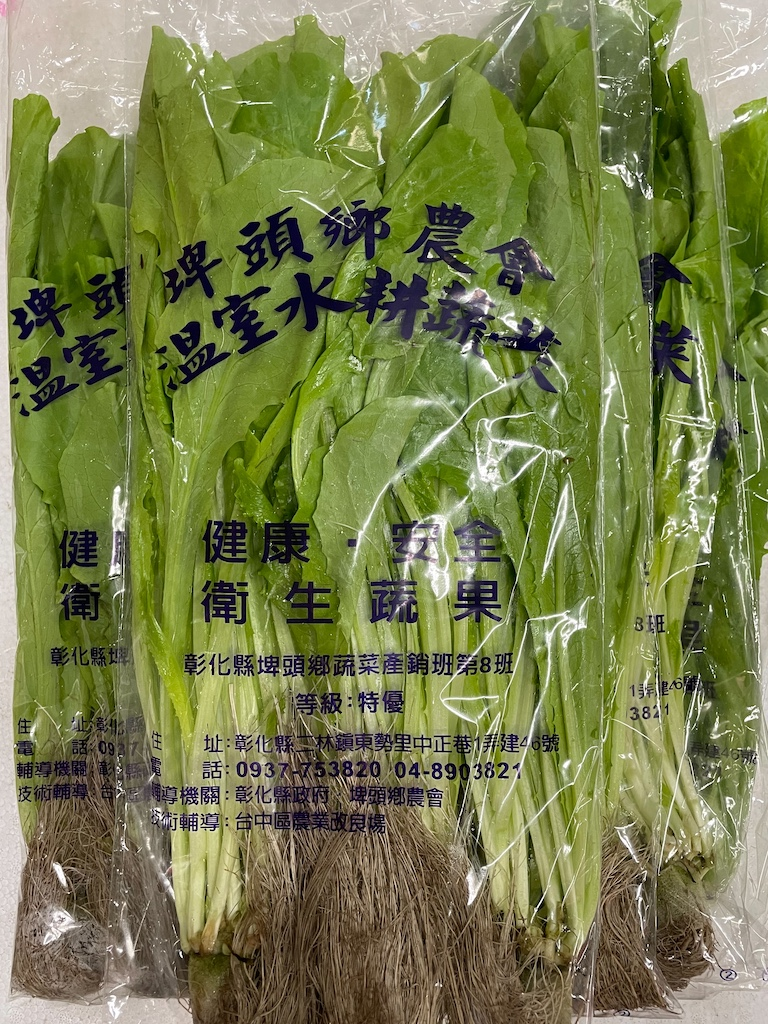
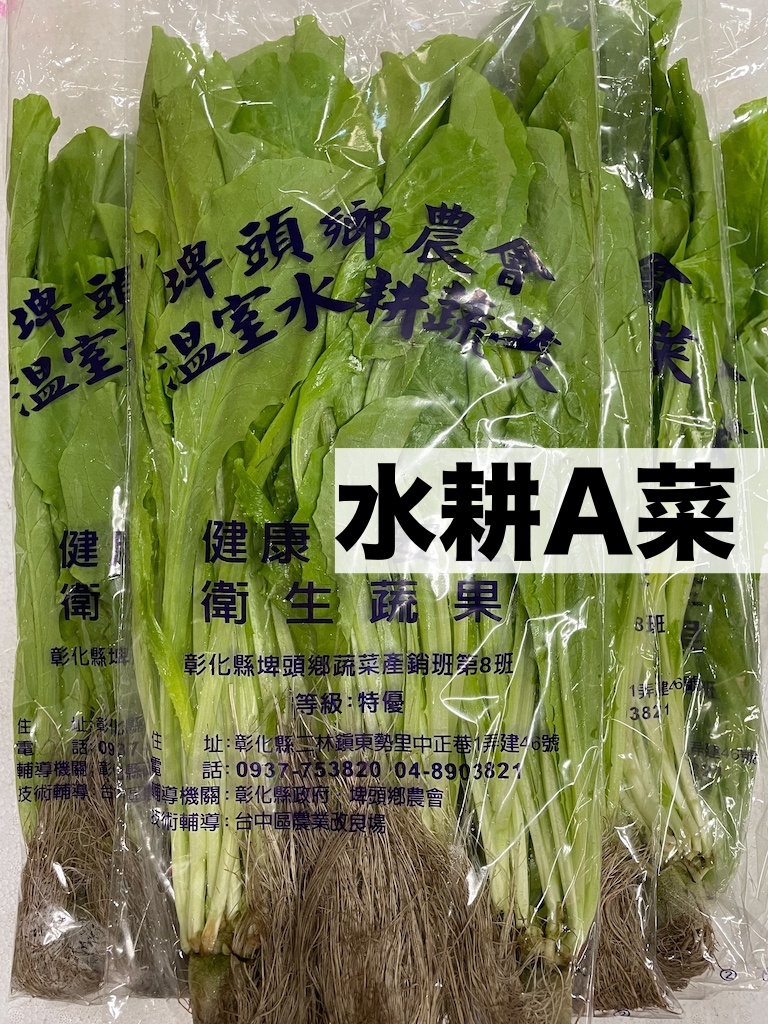
Updates

Changed region(s): [[0.4375, 0.4375, 1.0, 0.5625]]

diff --git a/static/js/main.2c08af31.chunk.js b/static/js/main.2c08af31.chunk.js
@@ -1,0 +1,2 @@
+(this["webpackJsonplandingpage-react-template"]=this["webpackJsonplandingpage-react-template"]||[]).push([[0],[,,,,,,,function(e){e.exports=JSON.parse('{"Header":{"title":"\u53f0\u7063\u76f4\u9001\u751f\u9bae\u852c\u83dc","paragraph":"\u7a7a\u904b\uff0c\u65b0\u9bae"},"About":{"paragraph":"\u4f86\u81ea\u5168\u53f0\u7063\u6700\u5148\u9032\u3001\u74b0\u4fdd\u7684\u677f\u6a4b\u679c\u83dc\u5e02\u5834","Why":["\u7522\u5730\u7cbe\u9078\u7576\u65e5\u65b0\u9bae\u6709\u6a5f\u7121\u8fb2\u85e5\u7522\u54c1","\u5c08\u4eba\u6e05\u7406\u7b26\u5408\u96d9\u908a\u6d77\u95dc\u6aa2\u9a57\u6a19\u6e96","\u53ef\u7533\u8acb\u8fb2\u85e5\u6aa2\u75ab\u8b49\u660e\u66f8","\u4fdd\u9bae\u4fdd\u51b7\u5305\u88dd\uff0c\u907f\u514d\u904b\u9001\u78b0\u649e\u640d\u58de"],"Why2":["\u5c08\u696d\u51b7\u85cf\u8a2d\u5099\uff0c\u65b0\u9bae\u54c1\u8cea\u4fdd\u8b49","\u4eca\u5929\u8a02\u8ca8\uff0c\u5f8c\u5929\u65e9\u4e0a\u53d6\u8ca8"]},"Faq":[{"question":"\u7e3d\u50f9\u70ba\u4f55\u9019\u9ebc\u8cb4","answer":"\u56e0\u70ba\u7a7a\u904b\u8cbb\u7528\u8f03\u8cb4\uff0c\u53f0\u7063\u852c\u679c\u4fbf\u5b9c\u6709\u54c1\u8cea\uff5e\u91cf\u5927\u53ef\u8b70"},{"question":"\u70ba\u4ec0\u9ebc\u53ea\u8ce3\u9019\u4e9b\u83dc\u7a2e","answer":"\u7d93\u904e\u5e02\u5834\u8abf\u67e5\uff0c\u6311\u9078\u4e86\u9999\u6e2f\u8cb7\u4e0d\u5230\u7684\u83dc\u7a2e"},{"question":"\u60f3\u77e5\u9053\u6709\u6c92\u6709\u5176\u4ed6\u7a2e\u985e","answer":"\u8acb\u63d0\u4f9b\u83dc\u7a2e\u540d\u7a31\uff0c\u6703\u5831\u7576\u65e5\u6642\u50f9\u7d66\u60a8"},{"question":"\u6709\u8ce3\u6c34\u679c\u55ce\uff1f","answer":"\u6709\u7684\uff0c\u8acb\u63d0\u4f9b\u6c34\u679c\u540d\u7a31\uff0c\u6211\u6703\u5831\u7576\u65e5\u6642\u50f9\u7d66\u60a8\uff0c\u4f46\u6c34\u679c\u6709\u5206\u8010\u719f\uff08\u8010\u653e\uff09\u53ca\u4e0d\u8010\u719f\uff08\u4e0d\u8010\u653e\uff09\uff0c\u8010\u719f\u5efa\u8b70\u8239\u904b\uff0c\u4e0d\u8010\u719f\u6700\u597d\u7a7a\u904b"},{"question":"\u6709\u8ce3\u706b\u934b\u98df\u6750\u55ce\uff1f\u4e38\u5b50\u985e\u9b5a\u677f\u985e\u7b49...","answer":"\u6709\u7684\uff0c\u8acb\u63d0\u4f9b\u54c1\u9805\uff0c\u6211\u6703\u5831\u7576\u65e5\u6642\u50f9\u7d66\u60a8"},{"question":"\u6709\u9b5a\u985e\u3001\u8089\u985e\u55ce\uff1f","answer":"\u6c92\u6709\uff0c\u56e0\u70ba\u6c92\u6709\u98db\u6a5f\u51b7\u51cd\u8a2d\u5099\u53ef\u4ee5\u505a\u8089\u54c1\u4fdd\u9bae"},{"question":"\u8089\u9b06\u3001\u6708\u9905\u3001\u679c\u4e7e\u3001\u4e7e\u8ca8\u985e\u7b49...\u6709\u8ce3\u55ce\uff1f","answer":"\u6709\u7684\uff0c\u8a62\u50f9\u5f8c\u53ef\u5831\u50f9\u7d66\u60a8"}],"Services":[{"icon":"fa fa-plane","img":"img/gif/select.gif","name":"\u7d30\u9078","text":"\u5c08\u696d\u4eba\u54e1\u6bcf\u65e5\u5728\u62cd\u8ce3\u5e02\u5834\u6311\u9078\u7576\u65e5\u65b0\u9bae\u98df\u6750\u3001\u6709\u6a5f\u7522\u54c1\uff08\u6709\u6a5f=\u7121\u6bd2\u3001\u7121\u8fb2\u85e5\uff09\uff0c\u7cbe\u6311\u7d30\u9078\u4e26\u53bb\u9664\u6839\u90e8\u3001\u6ce5\u571f\u53ca\u83dc\u87f2\uff0c\u53ef\u7b26\u5408\u96d9\u908a\u6d77\u95dc\u6aa2\u9a57\u6a19\u6e96\uff0c\u53e6\u63d0\u4f9b\u81ea\u8cbb\u8fb2\u85e5\u6aa2\u75ab\u8b49\u660e\u66f8\u7533\u8acb."},{"icon":"fa fa-plane","img":"img/gif/pick.gif","name":"\u7cbe\u6311","text":"\u7cbe\u6311\u7d30\u9078\u4e26\u53bb\u9664\u6839\u90e8\u3001\u6ce5\u571f\u53ca\u83dc\u87f2\uff0c\u53ef\u7b26\u5408\u96d9\u908a\u6d77\u95dc\u6aa2\u9a57\u6a19\u6e96\uff0c\u53e6\u63d0\u4f9b\u81ea\u8cbb\u8fb2\u85e5\u6aa2\u75ab\u8b49\u660e\u66f8\u7533\u8acb."},{"icon":"fa fa-cloud-download","img":"img/gif/package.gif","name":"\u56b4\u8b39\u5305\u88dd","text":"\u5168\u5bc6\u5c01\u5f0f\u767c\u6ce1\u81a0\uff08\u4fdd\u9e97\u9f8d\uff09\u5305\u88dd\uff0c\u4ee5\u51b0\u584a\u964d\u6eab\uff0c\u5916\u5c64\u5305\u8986\u5831\u7d19\u9632\u6b62\u98df\u6750\u51cd\u50b7\uff0c\u53ef\u4fdd\u51b7\u4fdd\u9bae12\u5c0f\u6642"},{"icon":"fa fa-language","img":"img/gif/fridge.gif","name":"\u4f4e\u6eab\u5132\u5b58","text":"\u6311\u9078\u51fa\u4f86\u7684\u98df\u6750\uff0c\u6703\u4fdd\u5b58\u5728\u5c08\u696d\u51b0\u5eab\u4e2d\uff0c\u7dad\u63011\u2103\uff0c\u4fdd\u9bae8\u5c0f\u6642"},{"icon":"fa fa-plane","img":"img/gif/deliver.gif","name":"\u4eca\u5929\u8a02\uff0c\u5f8c\u5929\u53d6\u8ca8","text":"\u6e05\u66685~9\u9ede\u6311\u8ca8 -> \u9810\u51b7\u4fdd\u9bae8\u5c0f\u6642 -> \u4e0b\u53485\u9ede\u9001\u81f3\u53f0\u5317\u6a5f\u5834 -> \u9694\u65e510\u9ede\u5230\u9054\u9999\u6e2f\u5831\u95dc\u78bc\u982d\uff0c16\u5c0f\u6642\u7a7a\u904b\u5230\u6e2f"}],"Testimonials":[{"img":"img/testimonials/01.jpg","text":"\\"Lorem ipsum dolor sit amet, consectetur adipiscing elit. Duis sed dapibus leo nec ornare diam sedasd commodo nibh ante facilisis bibendum dolor feugiat at.\\"","name":"John Doe"},{"img":"img/testimonials/02.jpg","text":"\\"Lorem ipsum dolor sit amet, consectetur adipiscing elit. Duis sed dapibus leo nec ornare diam sedasd commodo nibh ante facilisis bibendum dolor feugiat at.\\"","name":"Johnathan Doe"},{"img":"img/testimonials/03.jpg","text":"\\"Lorem ipsum dolor sit amet, consectetur adipiscing elit. Duis sed dapibus leo nec ornare diam sedasd commodo nibh ante facilisis bibendum dolor feugiat at.\\"","name":"John Doe"},{"img":"img/testimonials/04.jpg","text":"\\"Lorem ipsum dolor sit amet, consectetur adipiscing elit. Duis sed dapibus leo nec ornare diam sedasd commodo nibh ante facilisis bibendum dolor feugiat at.\\"","name":"Johnathan Doe"},{"img":"img/testimonials/05.jpg","text":"\\"Lorem ipsum dolor sit amet, consectetur adipiscing elit. Duis sed dapibus leo nec ornare diam sedasd commodo nibh ante facilisis bibendum dolor feugiat at.\\"","name":"John Doe"},{"img":"img/testimonials/06.jpg","text":"\\"Lorem ipsum dolor sit amet, consectetur adipiscing elit. Duis sed dapibus leo nec ornare diam sedasd commodo nibh ante facilisis bibendum dolor feugiat at.\\"","name":"Johnathan Doe"}],"Gallery":[{"path":"img/portfolio/baby-corn.jpg","title":"\u7389\u7c73\u7b4d"},{"path":"img/portfolio/hualien-shansu.jpg","title":"\u82b1\u84ee\u5c71\u8607"},{"path":"img/portfolio/meinong-water-lotus.jpg","title":"\u7f8e\u6fc3\u6c34\u84ee"},{"path":"img/portfolio/bergamot.jpg","title":"\u4f5b\u624b\u9f8d\u9b1a"},{"path":"img/portfolio/bitter-gourd.jpg","title":"\u767d\u7389\u82e6\u74dc"},{"path":"img/portfolio/19.jpg","title":"\u6c34\u8015A\u83dc"},{"path":"img/portfolio/20.jpg","title":"\u9ad8\u9e97\u83dc"},{"path":"img/portfolio/21.jpg","title":"A\u83dc"}],"Team":[{"img":"img/team/01.jpg","name":"John Doe","job":"Director"},{"img":"img/team/02.jpg","name":"Mike Doe","job":"Senior Designer"},{"img":"img/team/03.jpg","name":"Jane Doe","job":"Senior Designer"},{"img":"img/team/04.jpg","name":"Karen Doe","job":"Project Manager"}],"Contact":{"address":"\u65b0\u5317\u5e02\u677f\u6a4b\u5340\u677f\u57ce\u8def1000\u865f3\u865f\u5009","mobile":"+886 923 233 355","phone":"+886 2 2956 0069","email":"bestpenny2003@gmail.com","facebook":"https://www.facebook.com/pages/category/E-commerce-Website/%E9%95%B7%E8%99%B9-%E5%8F%B0%E7%81%A3%E7%9B%B4%E9%80%81%E8%94%AC%E6%9E%9C%E7%A4%BE-102198788367175/"},"Features":[{"icon":"fa fa-plane","title":"\u5927\u98db\u6a5f","text":"Lorem ipsum dolor sit amet placerat facilisis felis mi in tempus eleifend pellentesque natoque etiam."},{"icon":"fa fa-user-secret","title":"\u5c08\u5bb6\u6311\u83dc","text":"Lorem ipsum dolor sit amet placerat facilisis felis mi in tempus eleifend pellentesque natoque etiam."},{"icon":"fa fa-stethoscope","title":"\u6e05\u6d17\u3001\u53bb\u571f","text":"Lorem ipsum dolor sit amet placerat facilisis felis mi in tempus eleifend pellentesque natoque etiam."},{"icon":"fas fa-temperature-low","title":"\u51b7\u85cf\u3001\u4f4e\u6eab","text":"Lorem ipsum dolor sit amet placerat facilisis felis mi in tempus eleifend pellentesque natoque etiam."}]}')},function(e,a,t){e.exports=t(15)},,,,,function(e,a,t){},function(e,a,t){},function(e,a,t){"use strict";t.r(a);var n=t(0),l=t.n(n),i=t(6),c=t.n(i),r=(t(13),t(1)),s=t(2),o=t(4),m=t(3),p=function(e){Object(o.a)(t,e);var a=Object(m.a)(t);function t(){return Object(r.a)(this,t),a.apply(this,arguments)}return Object(s.a)(t,[{key:"render",value:function(){return l.a.createElement("nav",{id:"menu",className:"navbar navbar-default navbar-fixed-top"},l.a.createElement("div",{className:"container"},l.a.createElement("div",{className:"navbar-header"},l.a.createElement("button",{type:"button",className:"navbar-toggle collapsed","data-toggle":"collapse","data-target":"#bs-example-navbar-collapse-1"}," ",l.a.createElement("span",{className:"sr-only"},"Toggle navigation")," ",l.a.createElement("span",{className:"icon-bar"})," ",l.a.createElement("span",{className:"icon-bar"})," ",l.a.createElement("span",{className:"icon-bar"})," "),l.a.createElement("a",{className:"navbar-brand page-scroll",href:"#page-top"},"\u9577\u8679\u852c\u679c")," "),l.a.createElement("div",{className:"collapse navbar-collapse",id:"bs-example-navbar-collapse-1"},l.a.createElement("ul",{className:"nav navbar-nav navbar-right"},l.a.createElement("li",null,l.a.createElement("a",{href:"#about",className:"page-scroll"},"\u516c\u53f8\u4ecb\u7d39")),l.a.createElement("li",null,l.a.createElement("a",{href:"#flow",className:"page-scroll"},"\u5de5\u4f5c\u6d41\u7a0b")),l.a.createElement("li",null,l.a.createElement("a",{href:"#order",className:"page-scroll"},"\u8a02\u8ca8/\u4ed8\u6b3e/\u53d6\u8ca8")),l.a.createElement("li",null,l.a.createElement("a",{href:"#portfolio",className:"page-scroll"},"\u98df\u6750\u5716\u7247")),l.a.createElement("li",null,l.a.createElement("a",{href:"#contact",className:"page-scroll"},"\u806f\u7d61\u6211\u5011"))))))}}]),t}(n.Component),d=function(e){Object(o.a)(t,e);var a=Object(m.a)(t);function t(){return Object(r.a)(this,t),a.apply(this,arguments)}return Object(s.a)(t,[{key:"render",value:function(){return l.a.createElement("header",{id:"header"},l.a.createElement("div",{className:"intro"},l.a.createElement("div",{className:"overlay"},l.a.createElement("div",{className:"container"},l.a.createElement("div",{className:"row"},l.a.createElement("div",{className:"col-md-8 col-md-offset-2 intro-text"},l.a.createElement("h1",null,this.props.data?this.props.data.title:"Loading",l.a.createElement("span",null)),l.a.createElement("p",null,this.props.data?this.props.data.paragraph:"Loading"),l.a.createElement("a",{href:"#features",className:"btn btn-custom btn-lg page-scroll"},"\u77ad\u89e3\u66f4\u591a")," "))))))}}]),t}(n.Component),u=function(e){Object(o.a)(t,e);var a=Object(m.a)(t);function t(){return Object(r.a)(this,t),a.apply(this,arguments)}return Object(s.a)(t,[{key:"render",value:function(){return l.a.createElement("div",{id:"about"},l.a.createElement("div",{className:"container"},l.a.createElement("div",{className:"row"},l.a.createElement("div",{className:"col-xs-12 col-md-6"}," ",l.a.createElement("img",{src:"img/about.jpg",className:"img-responsive",alt:""})," "),l.a.createElement("div",{className:"col-xs-12 col-md-6"},l.a.createElement("div",{className:"about-text"},l.a.createElement("h2",null,"\u516c\u53f8\u4ecb\u7d39"),l.a.createElement("p",null,this.props.data?this.props.data.paragraph:"loading..."),l.a.createElement("h3",null,"\u7279\u8272"),l.a.createElement("div",{className:"list-style"},l.a.createElement("div",{className:"col-lg-6 col-sm-6 col-xs-12"},l.a.createElement("ul",null,this.props.data?this.props.data.Why.map((function(e,a){return l.a.createElement("li",{key:"".concat(e,"-").concat(a)},e)})):"loading")),l.a.createElement("div",{className:"col-lg-6 col-sm-6 col-xs-12"},l.a.createElement("ul",null,this.props.data?this.props.data.Why2.map((function(e,a){return l.a.createElement("li",{key:"".concat(e,"-").concat(a)}," ",e)})):"loading"))))))))}}]),t}(n.Component),g=function(e){Object(o.a)(t,e);var a=Object(m.a)(t);function t(){return Object(r.a)(this,t),a.apply(this,arguments)}return Object(s.a)(t,[{key:"render",value:function(){return l.a.createElement("div",{id:"flow",className:"text-center"},l.a.createElement("div",{className:"container"},l.a.createElement("div",{className:"section-title"},l.a.createElement("h2",null,"\u5f9e\u6311\u9078\u5230\u904b\u9001"),l.a.createElement("p",null,"\u5f9e\u4f86\u6e90\u958b\u59cb\u56b4\u683c\u7ba1\u63a7\uff0c\u76f4\u81f3\u98df\u6750\u65b0\u9bae\u5b89\u5168\u7684\u4ea4\u4ed8\u81f3\u60a8\u7684\u624b\u4e2d")),l.a.createElement("div",{className:"row"},this.props.data?this.props.data.map((function(e,a){return l.a.createElement("div",{key:"".concat(e.name,"-").concat(a),className:"col-md-6"}," ",l.a.createElement("div",{className:"flow-desc"},l.a.createElement("h1",null,e.name),l.a.createElement("p",null,e.text),l.a.createElement("img",{style:{maxWidth:"100%"},src:e.img})))})):"loading")))}}]),t}(n.Component),E=(t(14),function(e){Object(o.a)(t,e);var a=Object(m.a)(t);function t(){return Object(r.a)(this,t),a.apply(this,arguments)}return Object(s.a)(t,[{key:"render",value:function(){return l.a.createElement("div",{id:"order",className:"text-center"},l.a.createElement("div",{className:"container"},l.a.createElement("div",{className:"section-title"},l.a.createElement("h2",null,"\u5831\u50f9"),l.a.createElement("p",null,"\u6700\u4f4eMOQ\u70ba\u4e00\u7bb1\uff08\u6bcf\u7bb1\u70ba15KG)"),l.a.createElement("p",null,"\u904b\u8cbb\uff1a\u53c3\u7167\u570b\u969b\u822a\u7a7a\u516c\u53f8\u7576\u4e0b\u904b\u8cbb\u6a19\u6e96\u5831\u50f9"),l.a.createElement("p",null,"\u7576\u65e5\u83dc\u50f9\u4e5f\u6703\u56e0\u61c9\u5e02\u5834\u72c0\u6cc1\u66f4\u65b0")),l.a.createElement("div",{className:"section-title"},l.a.createElement("h2",null,"\u4ed8\u6b3e\u65b9\u5f0f"),l.a.createElement("p",null,"\u8f49\u5e33\u81f3\u6211\u53f8\u9999\u6e2f\u532f\u8c50\u9280\u884c\u5e33\u6236\uff0c\u6536\u5230\u5168\u984d\u6b3e\u9805\u5f8c\uff0c\u9694\u65e5\u7acb\u5373\u6311\u9078\u51fa\u8ca8"),l.a.createElement("p",null,"Day1: \u8a02\u8ca8\u3001\u4ed8\u6b3e\u3001\u78ba\u8a8d\u6b3e\u9805\u7121\u8aa4"),l.a.createElement("p",null,"Day2: \u6311\u8ca8\u3001\u51fa\u8ca8"),l.a.createElement("p",null,"Day3: \u65e9\u4e0a10\u9ede\u6536\u8ca8"),l.a.createElement("p",null,"\u8acb\u65bc\u9031\u4e00\u81f3\u5468\u56db\u4e0b\u55ae\u4e26\u4ed8\u6b3e\u5b8c\u6210\uff0c\u624d\u80fd\u4fdd\u8b492\u65e5\u5f8c\u53d6\u8ca8\uff0c\uff08\u53f0\u7063\u5e02\u5834\u516d\u3001\u65e5\u3001\u9031\u4e00\u4e0d\u51fa\u8ca8\uff09")),l.a.createElement("div",{className:"section-title"},l.a.createElement("h2",null,"\u53d6\u8ca8\u65b9\u5f0f"),l.a.createElement("p",null,"\u8ca8\u7269\u5bc4\u9001\u81f3\u9999\u6e2f\u5831\u95dc\u78bc\u982d\u5f8c\uff0c\u9700\u7531\u5ba2\u6236\u81ea\u884c\u63d0\u8ca8\uff0c\u6211\u53f8\u4e0d\u53e6\u884c\u5b89\u6392\u8ca8\u904b\uff08\u91cf\u5927\u8005\u53ef\u53e6\u6848\u8a0e\u8ad6\uff09"),l.a.createElement("li",null,"\u5ba2\u6236\u81ea\u884c\u81f3\u5831\u95dc\u884c\u63d0\u8ca8"),l.a.createElement("li",null,"\u5ba2\u6236\u5b89\u6392googvan"),l.a.createElement("quote",null,"\u52d9\u5fc5\u65bc\u6b63\u534812\u6642\u4e4b\u524d\u53d6\u8ca8\uff0c\u903e\u6642\u9020\u6210\u98df\u6750\u640d\u58de\u6982\u4e0d\u8ca0\u8cac"),l.a.createElement("br",null))))}}]),t}(n.Component)),f=function(e){Object(o.a)(t,e);var a=Object(m.a)(t);function t(){return Object(r.a)(this,t),a.apply(this,arguments)}return Object(s.a)(t,[{key:"render",value:function(){return l.a.createElement("div",{id:"faq",className:"text-center"},l.a.createElement("div",{className:"container"},l.a.createElement("div",{className:"section-title"},l.a.createElement("h2",null,"\u5e38\u898b\u554f\u984c")),l.a.createElement("div",{className:"row"},this.props.data?this.props.data.map((function(e,a){return l.a.createElement("div",{key:"".concat(e.title,"-").concat(a),className:"col-md-6 col-md-3"}," ",l.a.createElement("h3",null,e.question),l.a.createElement("p",null,e.answer))})):"Loading...")))}}]),t}(n.Component),h=function(e){Object(o.a)(t,e);var a=Object(m.a)(t);function t(){return Object(r.a)(this,t),a.apply(this,arguments)}return Object(s.a)(t,[{key:"render",value:function(){return l.a.createElement("div",{id:"portfolio",className:"text-center"},l.a.createElement("div",{className:"container"},l.a.createElement("div",{className:"section-title"},l.a.createElement("h2",null,"\u5be6\u7269\u5716\u7247"),l.a.createElement("p",null,"\u98df\u6750\u5be6\u7269\u5716\u7247")),l.a.createElement("div",{className:"row"},l.a.createElement("div",{className:"portfolio-items"},this.props.data?this.props.data.map((function(e,a){return l.a.createElement("div",{key:"".concat(e.name,"-").concat(a),className:"col-sm-6 col-md-4 col-lg-4"}," ",l.a.createElement("div",{className:"portfolio-item"},l.a.createElement("div",{className:"hover-bg"}," ",l.a.createElement("a",{href:e.path,title:e.title,"data-lightbox-gallery":"gallery1"},l.a.createElement("div",{className:"hover-text"},l.a.createElement("h4",null,e.title)),l.a.createElement("img",{src:e.path,className:"img-responsive",alt:e.title})," ")," ")))})):"loading"))))}}]),t}(n.Component),b=function(e){Object(o.a)(t,e);var a=Object(m.a)(t);function t(){return Object(r.a)(this,t),a.apply(this,arguments)}return Object(s.a)(t,[{key:"render",value:function(){return l.a.createElement("div",null,l.a.createElement("div",{id:"contact"},l.a.createElement("div",{className:"container"},l.a.createElement("div",{className:"col-md-8"},l.a.createElement("div",{className:"row"},l.a.createElement("div",{className:"section-title"},l.a.createElement("h2",null,"\u806f\u7d61\u6211\u5011"),l.a.createElement("p",null,"\u6b61\u8fce\u6d3d\u8a62\u5404\u985e\u554f\u984c\u53ca\u4e0b\u55ae")))),l.a.createElement("div",{className:"col-md-3 col-md-offset-1 contact-info"},l.a.createElement("div",{className:"contact-item"},l.a.createElement("h3",null,"Contact Info"),l.a.createElement("p",null,l.a.createElement("span",null,l.a.createElement("i",{className:"fa fa-map-marker"})," Address"),this.props.data?this.props.data.address:"loading")),l.a.createElement("div",{className:"contact-item"},l.a.createElement("p",null,l.a.createElement("span",null,l.a.createElement("i",{className:"fa fa-facebook"})," Facebook")," ",l.a.createElement("a",{href:this.props.data?this.props.data.facebook:"loading"},"\u9577\u8679 \u53f0\u7063\u76f4\u9001\u852c\u679c\u793e"))),l.a.createElement("div",{className:"contact-item"},l.a.createElement("p",null,l.a.createElement("span",null,l.a.createElement("i",{className:"fa fa-phone"})," Phone")," ",this.props.data?this.props.data.phone:"loading")),l.a.createElement("div",{className:"contact-item"},l.a.createElement("p",null,l.a.createElement("span",null,l.a.createElement("i",{className:"fa fa-mobile"})," Mobile")," ",this.props.data?this.props.data.mobile:"loading")),l.a.createElement("div",{className:"contact-item"},l.a.createElement("p",null,l.a.createElement("span",null,l.a.createElement("i",{className:"fa fa-envelope-o"})," Email")," ",this.props.data?this.props.data.email:"loading"))))),l.a.createElement("div",{id:"footer"},l.a.createElement("div",{className:"container text-center"},l.a.createElement("p",null,"\xa9 2020 Issaaf Kattan React Land Page Template. Design by"," ",l.a.createElement("a",{href:"http://www.templatewire.com",rel:"nofollow"},"TemplateWire")))))}}]),t}(n.Component),v=t(7),N=function(e){Object(o.a)(t,e);var a=Object(m.a)(t);function t(){var e;Object(r.a)(this,t);for(var n=arguments.length,l=new Array(n),i=0;i<n;i++)l[i]=arguments[i];return(e=a.call.apply(a,[this].concat(l))).state={landingPageData:{}},e}return Object(s.a)(t,[{key:"getlandingPageData",value:function(){this.setState({landingPageData:v})}},{key:"componentDidMount",value:function(){this.getlandingPageData()}},{key:"render",value:function(){return l.a.createElement("div",null,l.a.createElement(p,null),l.a.createElement(d,{data:this.state.landingPageData.Header}),l.a.createElement(u,{data:this.state.landingPageData.About}),l.a.createElement(g,{data:this.state.landingPageData.Services}),l.a.createElement(E,null),l.a.createElement(f,{data:this.state.landingPageData.Faq}),l.a.createElement(h,{data:this.state.landingPageData.Gallery}),l.a.createElement(b,{data:this.state.landingPageData.Contact}))}}]),t}(n.Component);Boolean("localhost"===window.location.hostname||"[::1]"===window.location.hostname||window.location.hostname.match(/^127(?:\.(?:25[0-5]|2[0-4][0-9]|[01]?[0-9][0-9]?)){3}$/));c.a.render(l.a.createElement(l.a.StrictMode,null,l.a.createElement(N,null)),document.getElementById("root")),"serviceWorker"in navigator&&navigator.serviceWorker.ready.then((function(e){e.unregister()})).catch((function(e){console.error(e.message)}))}],[[8,1,2]]]);
+//# sourceMappingURL=main.2c08af31.chunk.js.map

diff --git a/index.html b/index.html
@@ -1,1 +1,1 @@
-<head><meta charset="utf-8"><meta name="viewport" content="width=device-width,initial-scale=1"><link rel="shortcut icon" href="img/favicon.ico" type="image/x-icon"><link rel="apple-touch-icon" href="img/apple-touch-icon.png"><link rel="apple-touch-icon" sizes="72x72" href="img/apple-touch-icon-72x72.png"><link rel="apple-touch-icon" sizes="114x114" href="img/apple-touch-icon-114x114.png"><link rel="stylesheet" href="css/bootstrap.css"><link rel="stylesheet" href="fonts/font-awesome/css/font-awesome.css"><link rel="stylesheet" href="css/style.css"><link rel="stylesheet" href="css/nivo-lightbox/nivo-lightbox.css"><link rel="stylesheet" href="css/nivo-lightbox/default.css"><link href="https://fonts.googleapis.com/css?family=Open+Sans:300,400,600,700" rel="stylesheet"><link href="https://fonts.googleapis.com/css?family=Lato:400,700" rel="stylesheet"><link href="https://fonts.googleapis.com/css?family=Raleway:300,400,500,600,700,800,900" rel="stylesheet"><title>長虹蔬果</title><meta name="description" content=""><meta name="author" content="@Issaafalkattan"><link href="/vegeairlines/static/css/main.b7ddbe6d.chunk.css" rel="stylesheet"></head><body id="page-top" data-spy="scroll" data-target=".navbar-fixed-top"><div id="root"></div><script type="text/javascript" src="js/jquery.1.11.1.js"></script><script type="text/javascript" src="js/bootstrap.js"></script><script type="text/javascript" src="js/SmoothScroll.js"></script><script type="text/javascript" src="js/nivo-lightbox.js"></script><script type="text/javascript" src="js/jqBootstrapValidation.js"></script><script type="text/javascript" src="js/contact_me.js"></script><script type="text/javascript" src="js/main.js"></script><script>!function(e){function t(t){for(var n,u,l=t[0],i=t[1],p=t[2],c=0,s=[];c<l.length;c++)u=l[c],Object.prototype.hasOwnProperty.call(o,u)&&o[u]&&s.push(o[u][0]),o[u]=0;for(n in i)Object.prototype.hasOwnProperty.call(i,n)&&(e[n]=i[n]);for(f&&f(t);s.length;)s.shift()();return a.push.apply(a,p||[]),r()}function r(){for(var e,t=0;t<a.length;t++){for(var r=a[t],n=!0,l=1;l<r.length;l++){var i=r[l];0!==o[i]&&(n=!1)}n&&(a.splice(t--,1),e=u(u.s=r[0]))}return e}var n={},o={1:0},a=[];function u(t){if(n[t])return n[t].exports;var r=n[t]={i:t,l:!1,exports:{}};return e[t].call(r.exports,r,r.exports,u),r.l=!0,r.exports}u.m=e,u.c=n,u.d=function(e,t,r){u.o(e,t)||Object.defineProperty(e,t,{enumerable:!0,get:r})},u.r=function(e){"undefined"!=typeof Symbol&&Symbol.toStringTag&&Object.defineProperty(e,Symbol.toStringTag,{value:"Module"}),Object.defineProperty(e,"__esModule",{value:!0})},u.t=function(e,t){if(1&t&&(e=u(e)),8&t)return e;if(4&t&&"object"==typeof e&&e&&e.__esModule)return e;var r=Object.create(null);if(u.r(r),Object.defineProperty(r,"default",{enumerable:!0,value:e}),2&t&&"string"!=typeof e)for(var n in e)u.d(r,n,function(t){return e[t]}.bind(null,n));return r},u.n=function(e){var t=e&&e.__esModule?function(){return e.default}:function(){return e};return u.d(t,"a",t),t},u.o=function(e,t){return Object.prototype.hasOwnProperty.call(e,t)},u.p="/vegeairlines/";var l=this["webpackJsonplandingpage-react-template"]=this["webpackJsonplandingpage-react-template"]||[],i=l.push.bind(l);l.push=t,l=l.slice();for(var p=0;p<l.length;p++)t(l[p]);var f=i;r()}([])</script><script src="/vegeairlines/static/js/2.ef9b312c.chunk.js"></script><script src="/vegeairlines/static/js/main.8c90f41f.chunk.js"></script></body>
+<head><meta charset="utf-8"><meta name="viewport" content="width=device-width,initial-scale=1"><link rel="shortcut icon" href="img/favicon.ico" type="image/x-icon"><link rel="apple-touch-icon" href="img/apple-touch-icon.png"><link rel="apple-touch-icon" sizes="72x72" href="img/apple-touch-icon-72x72.png"><link rel="apple-touch-icon" sizes="114x114" href="img/apple-touch-icon-114x114.png"><link rel="stylesheet" href="css/bootstrap.css"><link rel="stylesheet" href="fonts/font-awesome/css/font-awesome.css"><link rel="stylesheet" href="css/style.css"><link rel="stylesheet" href="css/nivo-lightbox/nivo-lightbox.css"><link rel="stylesheet" href="css/nivo-lightbox/default.css"><link href="https://fonts.googleapis.com/css?family=Open+Sans:300,400,600,700" rel="stylesheet"><link href="https://fonts.googleapis.com/css?family=Lato:400,700" rel="stylesheet"><link href="https://fonts.googleapis.com/css?family=Raleway:300,400,500,600,700,800,900" rel="stylesheet"><title>長虹蔬果</title><meta name="description" content=""><meta name="author" content="@Issaafalkattan"><link href="/vegeairlines/static/css/main.b7ddbe6d.chunk.css" rel="stylesheet"></head><body id="page-top" data-spy="scroll" data-target=".navbar-fixed-top"><div id="root"></div><script type="text/javascript" src="js/jquery.1.11.1.js"></script><script type="text/javascript" src="js/bootstrap.js"></script><script type="text/javascript" src="js/SmoothScroll.js"></script><script type="text/javascript" src="js/nivo-lightbox.js"></script><script type="text/javascript" src="js/jqBootstrapValidation.js"></script><script type="text/javascript" src="js/contact_me.js"></script><script type="text/javascript" src="js/main.js"></script><script>!function(e){function t(t){for(var n,u,l=t[0],i=t[1],p=t[2],c=0,s=[];c<l.length;c++)u=l[c],Object.prototype.hasOwnProperty.call(o,u)&&o[u]&&s.push(o[u][0]),o[u]=0;for(n in i)Object.prototype.hasOwnProperty.call(i,n)&&(e[n]=i[n]);for(f&&f(t);s.length;)s.shift()();return a.push.apply(a,p||[]),r()}function r(){for(var e,t=0;t<a.length;t++){for(var r=a[t],n=!0,l=1;l<r.length;l++){var i=r[l];0!==o[i]&&(n=!1)}n&&(a.splice(t--,1),e=u(u.s=r[0]))}return e}var n={},o={1:0},a=[];function u(t){if(n[t])return n[t].exports;var r=n[t]={i:t,l:!1,exports:{}};return e[t].call(r.exports,r,r.exports,u),r.l=!0,r.exports}u.m=e,u.c=n,u.d=function(e,t,r){u.o(e,t)||Object.defineProperty(e,t,{enumerable:!0,get:r})},u.r=function(e){"undefined"!=typeof Symbol&&Symbol.toStringTag&&Object.defineProperty(e,Symbol.toStringTag,{value:"Module"}),Object.defineProperty(e,"__esModule",{value:!0})},u.t=function(e,t){if(1&t&&(e=u(e)),8&t)return e;if(4&t&&"object"==typeof e&&e&&e.__esModule)return e;var r=Object.create(null);if(u.r(r),Object.defineProperty(r,"default",{enumerable:!0,value:e}),2&t&&"string"!=typeof e)for(var n in e)u.d(r,n,function(t){return e[t]}.bind(null,n));return r},u.n=function(e){var t=e&&e.__esModule?function(){return e.default}:function(){return e};return u.d(t,"a",t),t},u.o=function(e,t){return Object.prototype.hasOwnProperty.call(e,t)},u.p="/vegeairlines/";var l=this["webpackJsonplandingpage-react-template"]=this["webpackJsonplandingpage-react-template"]||[],i=l.push.bind(l);l.push=t,l=l.slice();for(var p=0;p<l.length;p++)t(l[p]);var f=i;r()}([])</script><script src="/vegeairlines/static/js/2.ef9b312c.chunk.js"></script><script src="/vegeairlines/static/js/main.2c08af31.chunk.js"></script></body>

diff --git a/precache-manifest.4c96a2cd40d3cb2b5b346615d89f3bdc.js b/precache-manifest.4c96a2cd40d3cb2b5b346615d89f3bdc.js
@@ -1,10 +1,10 @@
 self.__precacheManifest = (self.__precacheManifest || []).concat([
   {
-    "revision": "d073d5c9bb1e90d023a4d7ad31fafc58",
+    "revision": "0f8788f805a4c3e8c1bed0b484c0c3bd",
     "url": "/vegeairlines/index.html"
   },
   {
-    "revision": "f7d60305ac62e4f4c4ef",
+    "revision": "7d236f25aedb4f83764a",
     "url": "/vegeairlines/static/css/main.b7ddbe6d.chunk.css"
   },
   {
@@ -16,8 +16,8 @@ self.__precacheManifest = (self.__precacheManifest || []).concat([
     "url": "/vegeairlines/static/js/2.ef9b312c.chunk.js.LICENSE.txt"
   },
   {
-    "revision": "f7d60305ac62e4f4c4ef",
-    "url": "/vegeairlines/static/js/main.8c90f41f.chunk.js"
+    "revision": "7d236f25aedb4f83764a",
+    "url": "/vegeairlines/static/js/main.2c08af31.chunk.js"
   },
   {
     "revision": "9b2b37a1812dcf802574",

diff --git a/service-worker.js b/service-worker.js
@@ -14,7 +14,7 @@
 importScripts("https://storage.googleapis.com/workbox-cdn/releases/4.3.1/workbox-sw.js");
 
 importScripts(
-  "/vegeairlines/precache-manifest.292b3b2f79eb4d5f6ae7dcd2e2be3e04.js"
+  "/vegeairlines/precache-manifest.4c96a2cd40d3cb2b5b346615d89f3bdc.js"
 );
 
 self.addEventListener('message', (event) => {
